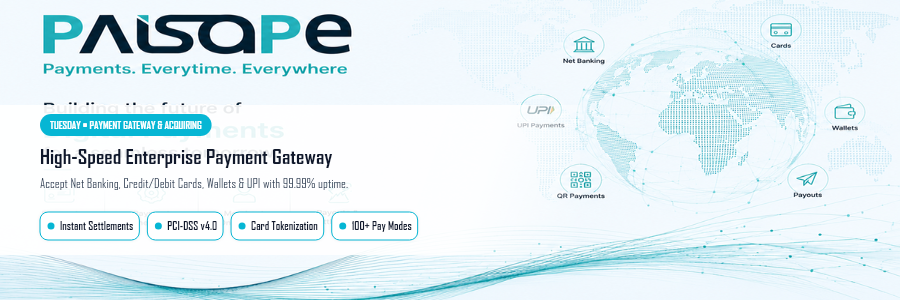
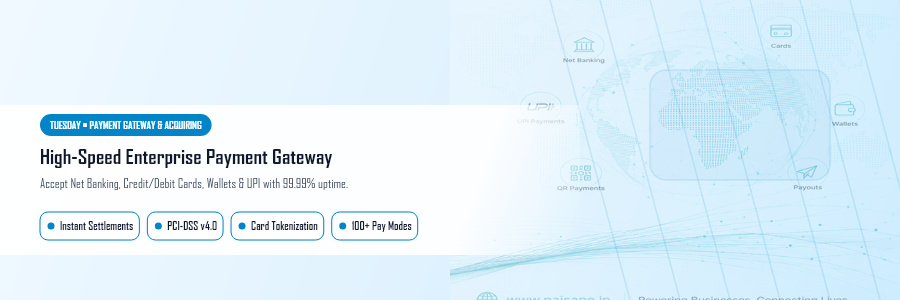
feat: design 7 unique custom background visuals and product color themes for each day of the week

diff --git a/generate_master_daily_banners.js b/generate_master_daily_banners.js
@@ -16,7 +16,11 @@ const bannersConfig = [
     tag: 'MONDAY • WABA & MESSAGING SOLUTION',
     headline: 'WhatsApp Business API & Messaging',
     subhead: 'Automated payment alerts, broadcast marketing & AI chatbots on WhatsApp.',
-    features: ['Official WABA API', 'Payment Alerts', 'DLT SMS Gateway', 'AI Chatbots']
+    features: ['Official WABA API', 'Payment Alerts', 'DLT SMS Gateway', 'AI Chatbots'],
+    themeColor: '#059669',
+    accentColor: '#10B981',
+    bgGrad: ['#ECFDF5', '#D1FAE5', '#A7F3D0'],
+    bgType: 'waba'
   },
   {
     day: 'tuesday',
@@ -24,7 +28,11 @@ const bannersConfig = [
     tag: 'TUESDAY • PAYMENT GATEWAY & ACQUIRING',
     headline: 'High-Speed Enterprise Payment Gateway',
     subhead: 'Accept Net Banking, Credit/Debit Cards, Wallets & UPI with 99.99% uptime.',
-    features: ['Instant Settlements', 'PCI-DSS v4.0', 'Card Tokenization', '100+ Pay Modes']
+    features: ['Instant Settlements', 'PCI-DSS v4.0', 'Card Tokenization', '100+ Pay Modes'],
+    themeColor: '#0284C7',
+    accentColor: '#38BDF8',
+    bgGrad: ['#F0F9FF', '#E0F2FE', '#BAE6FD'],
+    bgType: 'gateway'
   },
   {
     day: 'wednesday',
@@ -32,7 +40,11 @@ const bannersConfig = [
     tag: 'WEDNESDAY • PAYMENT ORCHESTRATION',
     headline: 'Multi-PG Payment Orchestration Switch',
     subhead: 'Smart routing engine with instant failover, lower MDR & unified analytics.',
-    features: ['Multi-PG Switch', 'Smart Failover', 'Lower MDR Costs', 'Unified Analytics']
+    features: ['Multi-PG Switch', 'Smart Failover', 'Lower MDR Costs', 'Unified Analytics'],
+    themeColor: '#6366F1',
+    accentColor: '#818CF8',
+    bgGrad: ['#EEF2FF', '#E0E7FF', '#C7D2FE'],
+    bgType: 'orchestration'
   },
   {
     day: 'thursday',
@@ -40,7 +52,11 @@ const bannersConfig = [
     tag: 'THURSDAY • FINTECH SAAS MODULES',
     headline: 'Automated Multi-Sheet Reconciliation SaaS',
     subhead: 'Reconcile up to 4 spreadsheets with dynamic field mapping & zero formula errors.',
-    features: ['4-Sheet Multi-Join', 'Dynamic Mapping', 'String Protection', 'Audit Reports']
+    features: ['4-Sheet Multi-Join', 'Dynamic Mapping', 'String Protection', 'Audit Reports'],
+    themeColor: '#0F766E',
+    accentColor: '#14B8A6',
+    bgGrad: ['#F0FDFA', '#CCFBF1', '#99F6E4'],
+    bgType: 'reconciliation'
   },
   {
     day: 'friday',
@@ -48,7 +64,11 @@ const bannersConfig = [
     tag: 'FRIDAY • IN-STORE MERCHANT HARDWARE',
     headline: 'Dynamic QR Code & Audio Soundbox',
     subhead: 'Instant in-store voice alerts with loud dual-SIM Soundboxes and UPI QR standees.',
-    features: ['Dynamic UPI QR', 'Voice Alerts', 'Dual-SIM Cellular', 'Zero MDR Acceptance']
+    features: ['Dynamic UPI QR', 'Voice Alerts', 'Dual-SIM Cellular', 'Zero MDR Acceptance'],
+    themeColor: '#D97706',
+    accentColor: '#F59E0B',
+    bgGrad: ['#FFFBEB', '#FEF3C7', '#FDE68A'],
+    bgType: 'soundbox'
   },
   {
     day: 'saturday',
@@ -56,7 +76,11 @@ const bannersConfig = [
     tag: 'SATURDAY • AEPS & BBPS BANKING',
     headline: 'AEPS Rural Banking & BBPS Bill Payments',
     subhead: 'Empower retail merchants with Aadhaar cash withdrawal, micro-ATM and BBPS payments.',
-    features: ['Aadhaar eKYC', 'Cash Withdrawal', 'Micro-ATM', 'BBPS Utility Pay']
+    features: ['Aadhaar eKYC', 'Cash Withdrawal', 'Micro-ATM', 'BBPS Utility Pay'],
+    themeColor: '#2563EB',
+    accentColor: '#60A5FA',
+    bgGrad: ['#EFF6FF', '#DBEAFE', '#BFDBFE'],
+    bgType: 'aeps'
   },
   {
     day: 'sunday',
@@ -64,9 +88,133 @@ const bannersConfig = [
     tag: 'SUNDAY • DIGITAL PAYMENTS SUITE',
     headline: 'Building the Future of Digital Payments',
     subhead: 'End-to-end payment issuing, acquiring, orchestration, reconciliation & SaaS software.',
-    features: ['Payment Gateway', 'Soundbox & POS', 'WABA & SMS', 'Multi-Sheet Recon']
+    features: ['Payment Gateway', 'Soundbox & POS', 'WABA & SMS', 'Multi-Sheet Recon'],
+    themeColor: '#0891B2',
+    accentColor: '#06B6D4',
+    bgGrad: ['#F8FAFC', '#F0F9FF', '#E0F2FE'],
+    bgType: 'master'
   }
 ];
+
+function drawCustomBackgroundGraphics(ctx, type, width, height, themeColor, accentColor) {
+  ctx.save();
+
+  if (type === 'waba') {
+    // Chat bubble vectors & WhatsApp messaging waves
+    ctx.strokeStyle = 'rgba(16, 185, 129, 0.20)';
+    ctx.fillStyle = 'rgba(16, 185, 129, 0.08)';
+
+    // Floating Chat Bubbles
+    const bubbles = [
+      { x: 680, y: 70, r: 45 },
+      { x: 790, y: 130, r: 35 },
+      { x: 640, y: 190, r: 28 },
+      { x: 750, y: 220, r: 40 }
+    ];
+    bubbles.forEach(b => {
+      ctx.beginPath();
+      ctx.arc(b.x, b.y, b.r, 0, Math.PI * 2);
+      ctx.fill();
+      ctx.stroke();
+    });
+
+    // Wave lines
+    ctx.beginPath();
+    ctx.moveTo(550, 300);
+    ctx.quadraticCurveTo(700, 150, 900, 240);
+    ctx.stroke();
+  } 
+  else if (type === 'gateway') {
+    // Credit card chip & digital security circuit lines
+    ctx.strokeStyle = 'rgba(2, 132, 199, 0.20)';
+    ctx.lineWidth = 1.5;
+
+    // Circuit grid
+    for (let x = 550; x <= 900; x += 50) {
+      ctx.beginPath();
+      ctx.moveTo(x, 0);
+      ctx.lineTo(x + 80, 300);
+      ctx.stroke();
+    }
+
+    // Shield card outline
+    ctx.fillStyle = 'rgba(2, 132, 199, 0.08)';
+    ctx.beginPath();
+    ctx.roundRect(650, 70, 180, 110, 16);
+    ctx.fill();
+    ctx.stroke();
+  } 
+  else if (type === 'orchestration') {
+    // Connected multi-PG routing network nodes
+    ctx.strokeStyle = 'rgba(99, 102, 241, 0.25)';
+    ctx.fillStyle = 'rgba(99, 102, 241, 0.12)';
+
+    const nodes = [
+      { x: 620, y: 80 }, { x: 740, y: 60 }, { x: 840, y: 120 },
+      { x: 680, y: 160 }, { x: 780, y: 210 }, { x: 860, y: 240 }
+    ];
+
+    // Connect nodes with routing paths
+    ctx.lineWidth = 1.5;
+    nodes.forEach((n1, i) => {
+      nodes.forEach((n2, j) => {
+        if (i < j && Math.hypot(n1.x - n2.x, n1.y - n2.y) < 160) {
+          ctx.beginPath();
+          ctx.moveTo(n1.x, n1.y);
+          ctx.lineTo(n2.x, n2.y);
+          ctx.stroke();
+        }
+      });
+    });
+
+    // Render Nodes
+    nodes.forEach(n => {
+      ctx.beginPath();
+      ctx.arc(n.x, n.y, 10, 0, Math.PI * 2);
+      ctx.fill();
+      ctx.stroke();
+    });
+  } 
+  else if (type === 'reconciliation') {
+    // Ledger grid lines & data matching matrix
+    ctx.strokeStyle = 'rgba(15, 118, 110, 0.18)';
+    ctx.lineWidth = 1.2;
+
+    // Spreadsheet grid
+    for (let x = 540; x <= 900; x += 40) {
+      ctx.beginPath();
+      ctx.moveTo(x, 0);
+      ctx.lineTo(x, 300);
+      ctx.stroke();
+    }
+    for (let y = 30; y <= 300; y += 40) {
+      ctx.beginPath();
+      ctx.moveTo(540, y);
+      ctx.lineTo(900, y);
+      ctx.stroke();
+    }
+  } 
+  else if (type === 'soundbox') {
+    // Speaker audio soundwave equalizer bars & QR matrix grid
+    ctx.fillStyle = 'rgba(217, 119, 6, 0.15)';
+    const barHeights = [40, 70, 110, 140, 90, 130, 60, 100, 150, 80, 50];
+    barHeights.forEach((h, i) => {
+      ctx.fillRect(580 + i * 26, 220 - h, 16, h);
+    });
+  } 
+  else if (type === 'aeps') {
+    // Biometric fingerprint circles & banking shield
+    ctx.strokeStyle = 'rgba(37, 99, 235, 0.20)';
+    ctx.lineWidth = 2;
+    for (let r = 20; r <= 140; r += 20) {
+      ctx.beginPath();
+      ctx.arc(740, 150, r, 0, Math.PI * 2);
+      ctx.stroke();
+    }
+  }
+
+  ctx.restore();
+}
 
 async function generateAllBanners() {
   const masterImg = await loadImage(samplePath);
@@ -77,13 +225,32 @@ async function generateAllBanners() {
     const canvas = createCanvas(width, height);
     const ctx = canvas.getContext('2d');
 
-    // 1. Draw Master Template Background (preserves exact globe graphic & wave graphic)
-    ctx.drawImage(masterImg, 0, 0, masterImg.width, masterImg.height, 0, -45, width, 380);
+    if (config.bgType === 'master') {
+      // Sunday uses master globe payments graphic
+      ctx.drawImage(masterImg, 0, 0, masterImg.width, masterImg.height, 0, -45, width, 380);
+    } else {
+      // Monday-Saturday use UNIQUE distinct product background gradients & graphics
+      const bgGradient = ctx.createLinearGradient(0, 0, width, height);
+      bgGradient.addColorStop(0, config.bgGrad[0]);
+      bgGradient.addColorStop(0.5, config.bgGrad[1]);
+      bgGradient.addColorStop(1, config.bgGrad[2]);
+      ctx.fillStyle = bgGradient;
+      ctx.fillRect(0, 0, width, height);
 
-    // 2. Draw Translucent Content Backdrop ONLY in content region below the logo (y >= 110)
-    const contentGrad = ctx.createLinearGradient(0, 110, 560, 300);
-    contentGrad.addColorStop(0, 'rgba(255, 255, 255, 0.94)');
-    contentGrad.addColorStop(0.8, 'rgba(255, 255, 255, 0.88)');
+      // Draw day-specific background illustration graphics
+      drawCustomBackgroundGraphics(ctx, config.bgType, width, height, config.themeColor, config.accentColor);
+
+      // Also render master globe graphic gracefully on right with transparency
+      ctx.save();
+      ctx.globalAlpha = 0.35;
+      ctx.drawImage(masterImg, 450, 0, 450, 507, 450, -40, 450, 360);
+      ctx.restore();
+    }
+
+    // 2. Draw Translucent Content Panel (y >= 105) for text contrast
+    const contentGrad = ctx.createLinearGradient(0, 105, 560, 300);
+    contentGrad.addColorStop(0, 'rgba(255, 255, 255, 0.95)');
+    contentGrad.addColorStop(0.8, 'rgba(255, 255, 255, 0.90)');
     contentGrad.addColorStop(1, 'rgba(255, 255, 255, 0.0)');
     ctx.fillStyle = contentGrad;
     ctx.fillRect(0, 105, 580, 150);
@@ -91,7 +258,7 @@ async function generateAllBanners() {
     // 3. Category Day Badge Tag
     ctx.font = 'bold 10px sans-serif';
     const tagWidth = ctx.measureText(config.tag).width + 20;
-    ctx.fillStyle = '#06B6D4';
+    ctx.fillStyle = config.themeColor;
     ctx.beginPath();
     ctx.roundRect(40, 114, tagWidth, 22, 11);
     ctx.fill();
@@ -128,12 +295,12 @@ async function generateAllBanners() {
       ctx.shadowColor = 'transparent';
 
       // Pill Border
-      ctx.strokeStyle = '#06B6D4';
+      ctx.strokeStyle = config.themeColor;
       ctx.lineWidth = 1;
       ctx.stroke();
 
       // Bullet Dot
-      ctx.fillStyle = '#06B6D4';
+      ctx.fillStyle = config.themeColor;
       ctx.beginPath();
       ctx.arc(pillX + 11, pillY + 14, 3.5, 0, Math.PI * 2);
       ctx.fill();
@@ -154,7 +321,7 @@ async function generateAllBanners() {
       fs.writeFileSync(path.join(outputDir, 'default.png'), buffer);
     }
 
-    console.log(`Generated ${config.day}.png with original logo - Size: ${Math.round(buffer.length / 1024)} KB (900x300px)`);
+    console.log(`Generated ${config.day}.png with unique ${config.bgType} background - Size: ${Math.round(buffer.length / 1024)} KB (900x300px)`);
   }
 }
 
